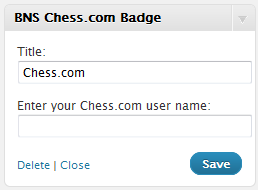
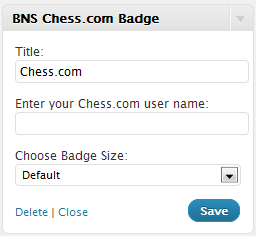
git-svn-id: https://plugins.svn.wordpress.org/bns-chesscom-badge/trunk@244642 b8457f37-d9ea-0310-8a92-e5e31aec5664

diff --git a/bns-chesscom-badge-style.css b/bns-chesscom-badge-style.css
@@ -1,0 +1,29 @@
+/*  This file is part of BNS Chess.com Badge.
+
+    Copyright 2010  Edward Caissie  (email : edward.caissie@gmail.com)
+
+    BNS Chess.com Badge is free software; you can redistribute it and/or modify
+    it under the terms of the GNU General Public License version 2,
+    as published by the Free Software Foundation.
+    
+    You may NOT assume that you can use any other version of the GPL.
+    
+    This program is distributed in the hope that it will be useful,
+    but WITHOUT ANY WARRANTY; without even the implied warranty of
+    MERCHANTABILITY or FITNESS FOR A PARTICULAR PURPOSE.  See the
+    GNU General Public License for more details.
+    
+    You should have received a copy of the GNU General Public License
+    along with this program; if not, write to the Free Software
+    Foundation, Inc., 51 Franklin St, Fifth Floor, Boston, MA  02110-1301  USA
+    
+    The license for this software can also likely be found here:
+    http://www.gnu.org/licenses/gpl-2.0.html
+*/
+
+/* BNS Chesscom Badge Stylesheet */
+.bns-chesscom-badge a img.center {
+    display: block;
+    margin: 0 auto;    
+}
+/* May 22, 2010 */

diff --git a/bns-chesscom-badge.php b/bns-chesscom-badge.php
@@ -3,7 +3,7 @@
 Plugin Name: BNS Chess.com Badge
 Plugin URI: http://buynowshop.com/plugins/bns-chesscom-badge
 Description: Chess.com widget that dynamically displays the user's current rating with direct links to Chess.com
-Version: 0.1
+Version: 0.2
 Author: Edward Caissie
 Author URI: http://edwardcaissie.com/
 License: GPL2
@@ -36,6 +36,13 @@ if (version_compare($wp_version, "2.8", "<")) {
 	exit ($exit_message);
 }
 
+/* Add BNS Chess.com Badge Style sheet */
+add_action( 'wp_head', 'add_BNS_Chesscom_Badge_Header_Code' );
+
+function add_BNS_Chesscom_Badge_Header_Code() {
+  echo '<link type="text/css" rel="stylesheet" href="' . get_bloginfo('url') . '/wp-content/plugins/bns-chesscom-badge/bns-chesscom-badge-style.css" />' . "\n";
+}
+
 /* Add function to the widgets_init hook. */
 add_action( 'widgets_init', 'load_my_bns_chesscom_badge_widget' );
 
@@ -61,6 +68,7 @@ class BNS_Chesscom_Badge_Widget extends WP_Widget {
         /* User-selected settings. */
         $title = apply_filters('widget_title', $instance['title'] );
         $the_user = $instance['the_user'];
+	$badge = $instance['badge'];
         
         /* Before widget (defined by themes). */
         echo $before_widget;
@@ -91,28 +99,70 @@ class BNS_Chesscom_Badge_Widget extends WP_Widget {
             $has_avatar,
             $avatar_url) = explode('|', $chess_user );
         ?>
-        
-        <div style="border: 1px solid #000; width: 170px; overflow: hidden; font-family: Verdana, Arial, sans-serif; margin: 4px auto;">
-            <div style="border-top: 2px solid #9ac567; border-left: 2px solid #9ac567; border-right: 2px solid #224d00; border-bottom: 2px solid #224d00; background-color: #4a7521; font-size: 12px;">
-                <div style="margin: 4px; background-color: #fff; padding: 4px; text-align: center; border: 1px solid #9ac567;">
-                    <a href="http://www.chess.com?ref_id=<?php echo $user_id; ?>" rel="nofollow" style="font-size: 9px;">
-                        <img src="http://cssjs.chesscomfiles.com/images/chesscom_logo.gif" border="0" />
-                    </a>
-                    <a href="http://www.chess.com?ref_id=<?php echo $user_id; ?>" rel="nofollow" style="font-size: 9px;"></a>
-                </div>
-                <div style="text-align: center; margin: 2px; color: #ffe; font-size: 9px;">
-                    <strong>I <a href="http://www.chess.com" style="color: #ffc; text-decoration: none; font-size: 9px;">play chess</a> at Chess.com!</strong>
-                </div>
-                <div style="margin: 4px; background-color: #fff; padding: 6px; border: 1px solid #9ac567;"> <a href="http://www.chess.com/members/view/Cais?ref_id=<?php echo $user_id; ?>" rel="nofollow"><img src="<?php echo $avatar_url; ?>" width="30" height="30" style="float: left; margin: 0 4px 4px 0; border: 1px solid #666;" /></a><a href="http://www.chess.com/members/view/<?php echo $username; ?>?ref_id=<?php echo $user_id; ?>" rel="nofollow"><strong><?php echo $username; ?></strong></a><br />Rating: <strong><?php echo $best_rating; ?></strong><br /><br />
-                    <div style="text-align:center; margin: 8px;">
-                        <a href="http://www.chess.com/echess/create_game.html?uid=<?php echo $user_id; ?>&ref_id=<?php echo $user_id; ?>" style="border-top: 2px solid #f7b15b; border-left: 2px solid #f7b15b; border-right: 2px solid #db8213; border-bottom: 2px solid #db8213; background-color: #ff9c21; color: #ffc; padding: 1px 2px; text-decoration: none; font-weight: bold; font-size: 14px;" rel="nofollow">Challenge me!</a>
-                    </div>
-                    <div style="text-align:center;">
-                        <a href="http://www.chess.com/home/game_archive.html?member=<?php echo $username; ?>&ref_id=<?php echo $user_id; ?>" rel="nofollow">View my games</a>
-                    </div>
-                </div>
-            </div>
-        </div>
+
+	<?php /* Start badge choices */
+	        switch ($badge) {
+			case "125x125": ?>
+				<a href="http://www.chess.com?ref_id=<?php echo $user_id; ?>">
+					<img class="center" src="http://cssjs.chesscomfiles.com/images/badges/chesscom_badge_favorite_125x125.gif" alt="" width="125" height="125" />
+				</a>
+			<?php break;
+			case "200x50": ?>
+				<a href="http://www.chess.com?ref_id=<?php echo $user_id; ?>">
+					<img class="center" src="http://cssjs.chesscomfiles.com/images/badges/chesscom_badge_favorite_200x50.gif" alt="" width="200" height="50" />
+				</a>
+			<?php break;
+			case "100x30": ?>
+				<a href="http://www.chess.com?ref_id=<?php echo $user_id; ?>">
+					<img class="center" src="http://cssjs.chesscomfiles.com/images/badges/chesscom_badge_favorite_100x30.gif" alt="" width="100" height="30" />
+				</a>
+			<?php break;
+			case "120x60": ?>
+				<a href="http://www.chess.com?ref_id=<?php echo $user_id; ?>">
+					<img class="center" src="http://cssjs.chesscomfiles.com/images/badges/chesscom_badge_favorite_120x60.gif" alt="" width="120" height="60" />
+				</a>
+			<?php break;
+			case "468x60": ?>
+				<a href="http://www.chess.com?ref_id=<?php echo $user_id; ?>">
+					<img class="center" src="http://cssjs.chesscomfiles.com/images/badges/chesscom_badge_468x60_s.gif" alt="" width="468" height="60" />
+				</a>
+			<?php break;
+			case "250x250": ?>
+				<a href="http://www.chess.com?ref_id=<?php echo $user_id; ?>">
+					<img class="center" src="http://cssjs.chesscomfiles.com/images/badges/chesscom_badge_250x250_d.gif" alt="" width="250" height="250" />
+				</a>
+			<?php break;
+			case "200x200": ?>
+				<a href="http://www.chess.com?ref_id=<?php echo $user_id; ?>">
+					<img class="center" src="http://cssjs.chesscomfiles.com/images/badges/chesscom_badge_200x200_d.gif" alt="" width="200" height="200" />
+				</a>
+			<?php break;
+			case "Default":
+			default: ?>
+				<div style="border: 1px solid #000; width: 170px; overflow: hidden; font-family: Verdana, Arial, sans-serif; margin: 4px auto;">
+				    <div style="border-top: 2px solid #9ac567; border-left: 2px solid #9ac567; border-right: 2px solid #224d00; border-bottom: 2px solid #224d00; background-color: #4a7521; font-size: 12px;">
+					<div style="margin: 4px; background-color: #fff; padding: 4px; text-align: center; border: 1px solid #9ac567;">
+					    <a href="http://www.chess.com?ref_id=<?php echo $user_id; ?>" rel="nofollow" style="font-size: 9px;">
+						<img src="http://cssjs.chesscomfiles.com/images/chesscom_logo.gif" border="0" />
+					    </a>
+					    <a href="http://www.chess.com?ref_id=<?php echo $user_id; ?>" rel="nofollow" style="font-size: 9px;"></a>
+					</div>
+					<div style="text-align: center; margin: 2px; color: #ffe; font-size: 9px;">
+					    <strong>I <a href="http://www.chess.com" style="color: #ffc; text-decoration: none; font-size: 9px;">play chess</a> at Chess.com!</strong>
+					</div>
+					<div style="margin: 4px; background-color: #fff; padding: 6px; border: 1px solid #9ac567;"> <a href="http://www.chess.com/members/view/Cais?ref_id=<?php echo $user_id; ?>" rel="nofollow"><img src="<?php echo $avatar_url; ?>" width="30" height="30" style="float: left; margin: 0 4px 4px 0; border: 1px solid #666;" /></a><a href="http://www.chess.com/members/view/<?php echo $username; ?>?ref_id=<?php echo $user_id; ?>" rel="nofollow"><strong><?php echo $username; ?></strong></a><br />Rating: <strong><?php echo $best_rating; ?></strong><br /><br />
+					    <div style="text-align:center; margin: 8px;">
+						<a href="http://www.chess.com/echess/create_game.html?uid=<?php echo $user_id; ?>&ref_id=<?php echo $user_id; ?>" style="border-top: 2px solid #f7b15b; border-left: 2px solid #f7b15b; border-right: 2px solid #db8213; border-bottom: 2px solid #db8213; background-color: #ff9c21; color: #ffc; padding: 1px 2px; text-decoration: none; font-weight: bold; font-size: 14px;" rel="nofollow">Challenge me!</a>
+					    </div>
+					    <div style="text-align:center;">
+						<a href="http://www.chess.com/home/game_archive.html?member=<?php echo $username; ?>&ref_id=<?php echo $user_id; ?>" rel="nofollow">View my games</a>
+					    </div>
+					</div>
+				    </div>
+				</div>
+			<?php
+		}
+	/* End badge choices */ ?>
         
         <?php
         
@@ -126,6 +176,7 @@ class BNS_Chesscom_Badge_Widget extends WP_Widget {
         /* Strip tags (if needed) and update the widget settings. */
         $instance['title']      = strip_tags( $new_instance['title'] );
         $instance['the_user']   = strip_tags( $new_instance['the_user'] );
+	$instance['badge']	= $new_instance['badge'];
         
         return $instance;
     }
@@ -135,18 +186,32 @@ class BNS_Chesscom_Badge_Widget extends WP_Widget {
         $defaults = array(
             'title'     => __('Chess.com'),
             'the_user'  => '',
+	    'badge'	=> 'default',
             );
         $instance = wp_parse_args( (array) $instance, $defaults );
         ?>
         <p>
-            <label for="<?php echo $this->get_field_id( 'title' ); ?>"><?php _e('Title:'); ?></label>
-            <input id="<?php echo $this->get_field_id( 'title' ); ?>" name="<?php echo $this->get_field_name( 'title' ); ?>" value="<?php echo $instance['title']; ?>" style="width:100%;" />
+		<label for="<?php echo $this->get_field_id( 'title' ); ?>"><?php _e('Title:'); ?></label>
+		<input class="widefat" id="<?php echo $this->get_field_id( 'title' ); ?>" name="<?php echo $this->get_field_name( 'title' ); ?>" value="<?php echo $instance['title']; ?>" style="width:100%;" />
         </p>
         <p>
-            <label for="<?php echo $this->get_field_id( 'the_user' ); ?>"><?php _e('Enter your Chess.com user name:'); ?></label>
-            <input id="<?php echo $this->get_field_id( 'the_user' ); ?>" name="<?php echo $this->get_field_name( 'the_user' ); ?>" value="<?php echo $instance['the_user']; ?>" style="width:100%;" />
+		<label for="<?php echo $this->get_field_id( 'the_user' ); ?>"><?php _e('Enter your Chess.com user name:'); ?></label>
+		<input class="widefat" id="<?php echo $this->get_field_id( 'the_user' ); ?>" name="<?php echo $this->get_field_name( 'the_user' ); ?>" value="<?php echo $instance['the_user']; ?>" style="width:100%;" />
         </p>
+	<p>
+		<label for="<?php echo $this->get_field_id( 'badge' ); ?>"><?php _e('Choose Badge Size:'); ?></label> 
+		<select id="<?php echo $this->get_field_id( 'badge' ); ?>" name="<?php echo $this->get_field_name( 'badge' ); ?>" class="widefat">
+			<option <?php if ( 'Default' == $instance['badge'] ) echo 'selected="selected"'; ?>>Default</option>
+			<option <?php if ( '125x125' == $instance['badge'] ) echo 'selected="selected"'; ?>>125x125</option>
+			<option <?php if ( '200x50' == $instance['badge'] ) echo 'selected="selected"'; ?>>200x50</option>
+			<option <?php if ( '100x30' == $instance['badge'] ) echo 'selected="selected"'; ?>>100x30</option>
+			<option <?php if ( '120x60' == $instance['badge'] ) echo 'selected="selected"'; ?>>120x60</option>
+			<option <?php if ( '468x60' == $instance['badge'] ) echo 'selected="selected"'; ?>>468x60</option>
+			<option <?php if ( '250x250' == $instance['badge'] ) echo 'selected="selected"'; ?>>250x250</option>
+			<option <?php if ( '200x200' == $instance['badge'] ) echo 'selected="selected"'; ?>>200x200</option>
+		</select>
+	</p>
         <?php
     }
 }
-?>
+/* May 22, 2010 */ ?>
